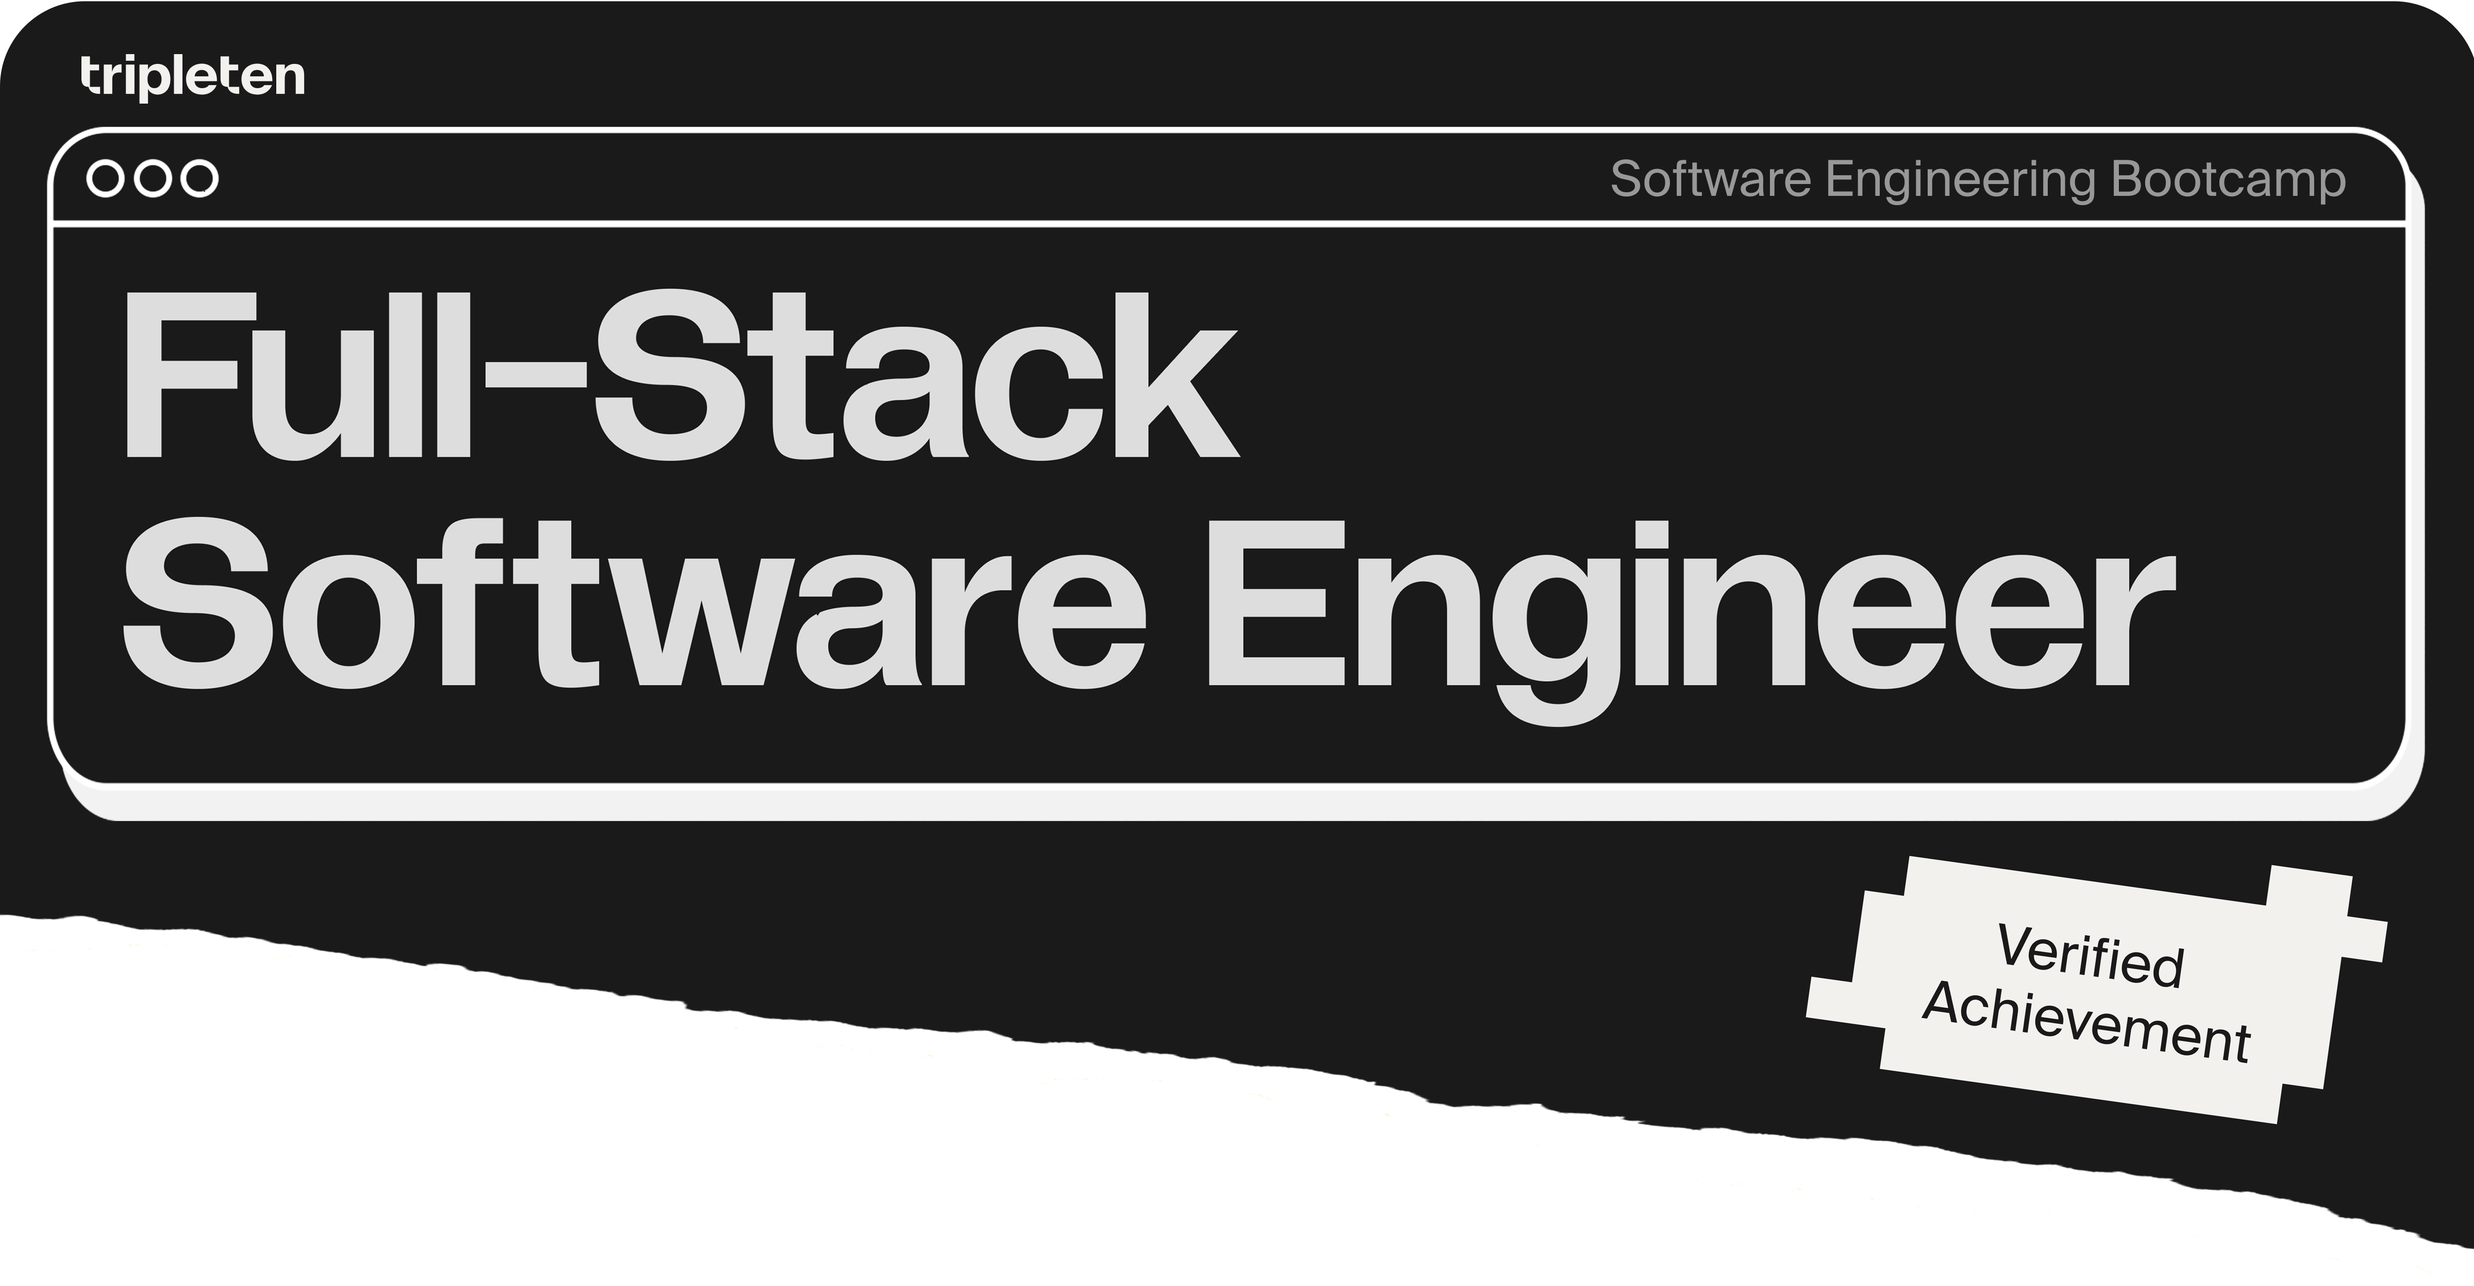
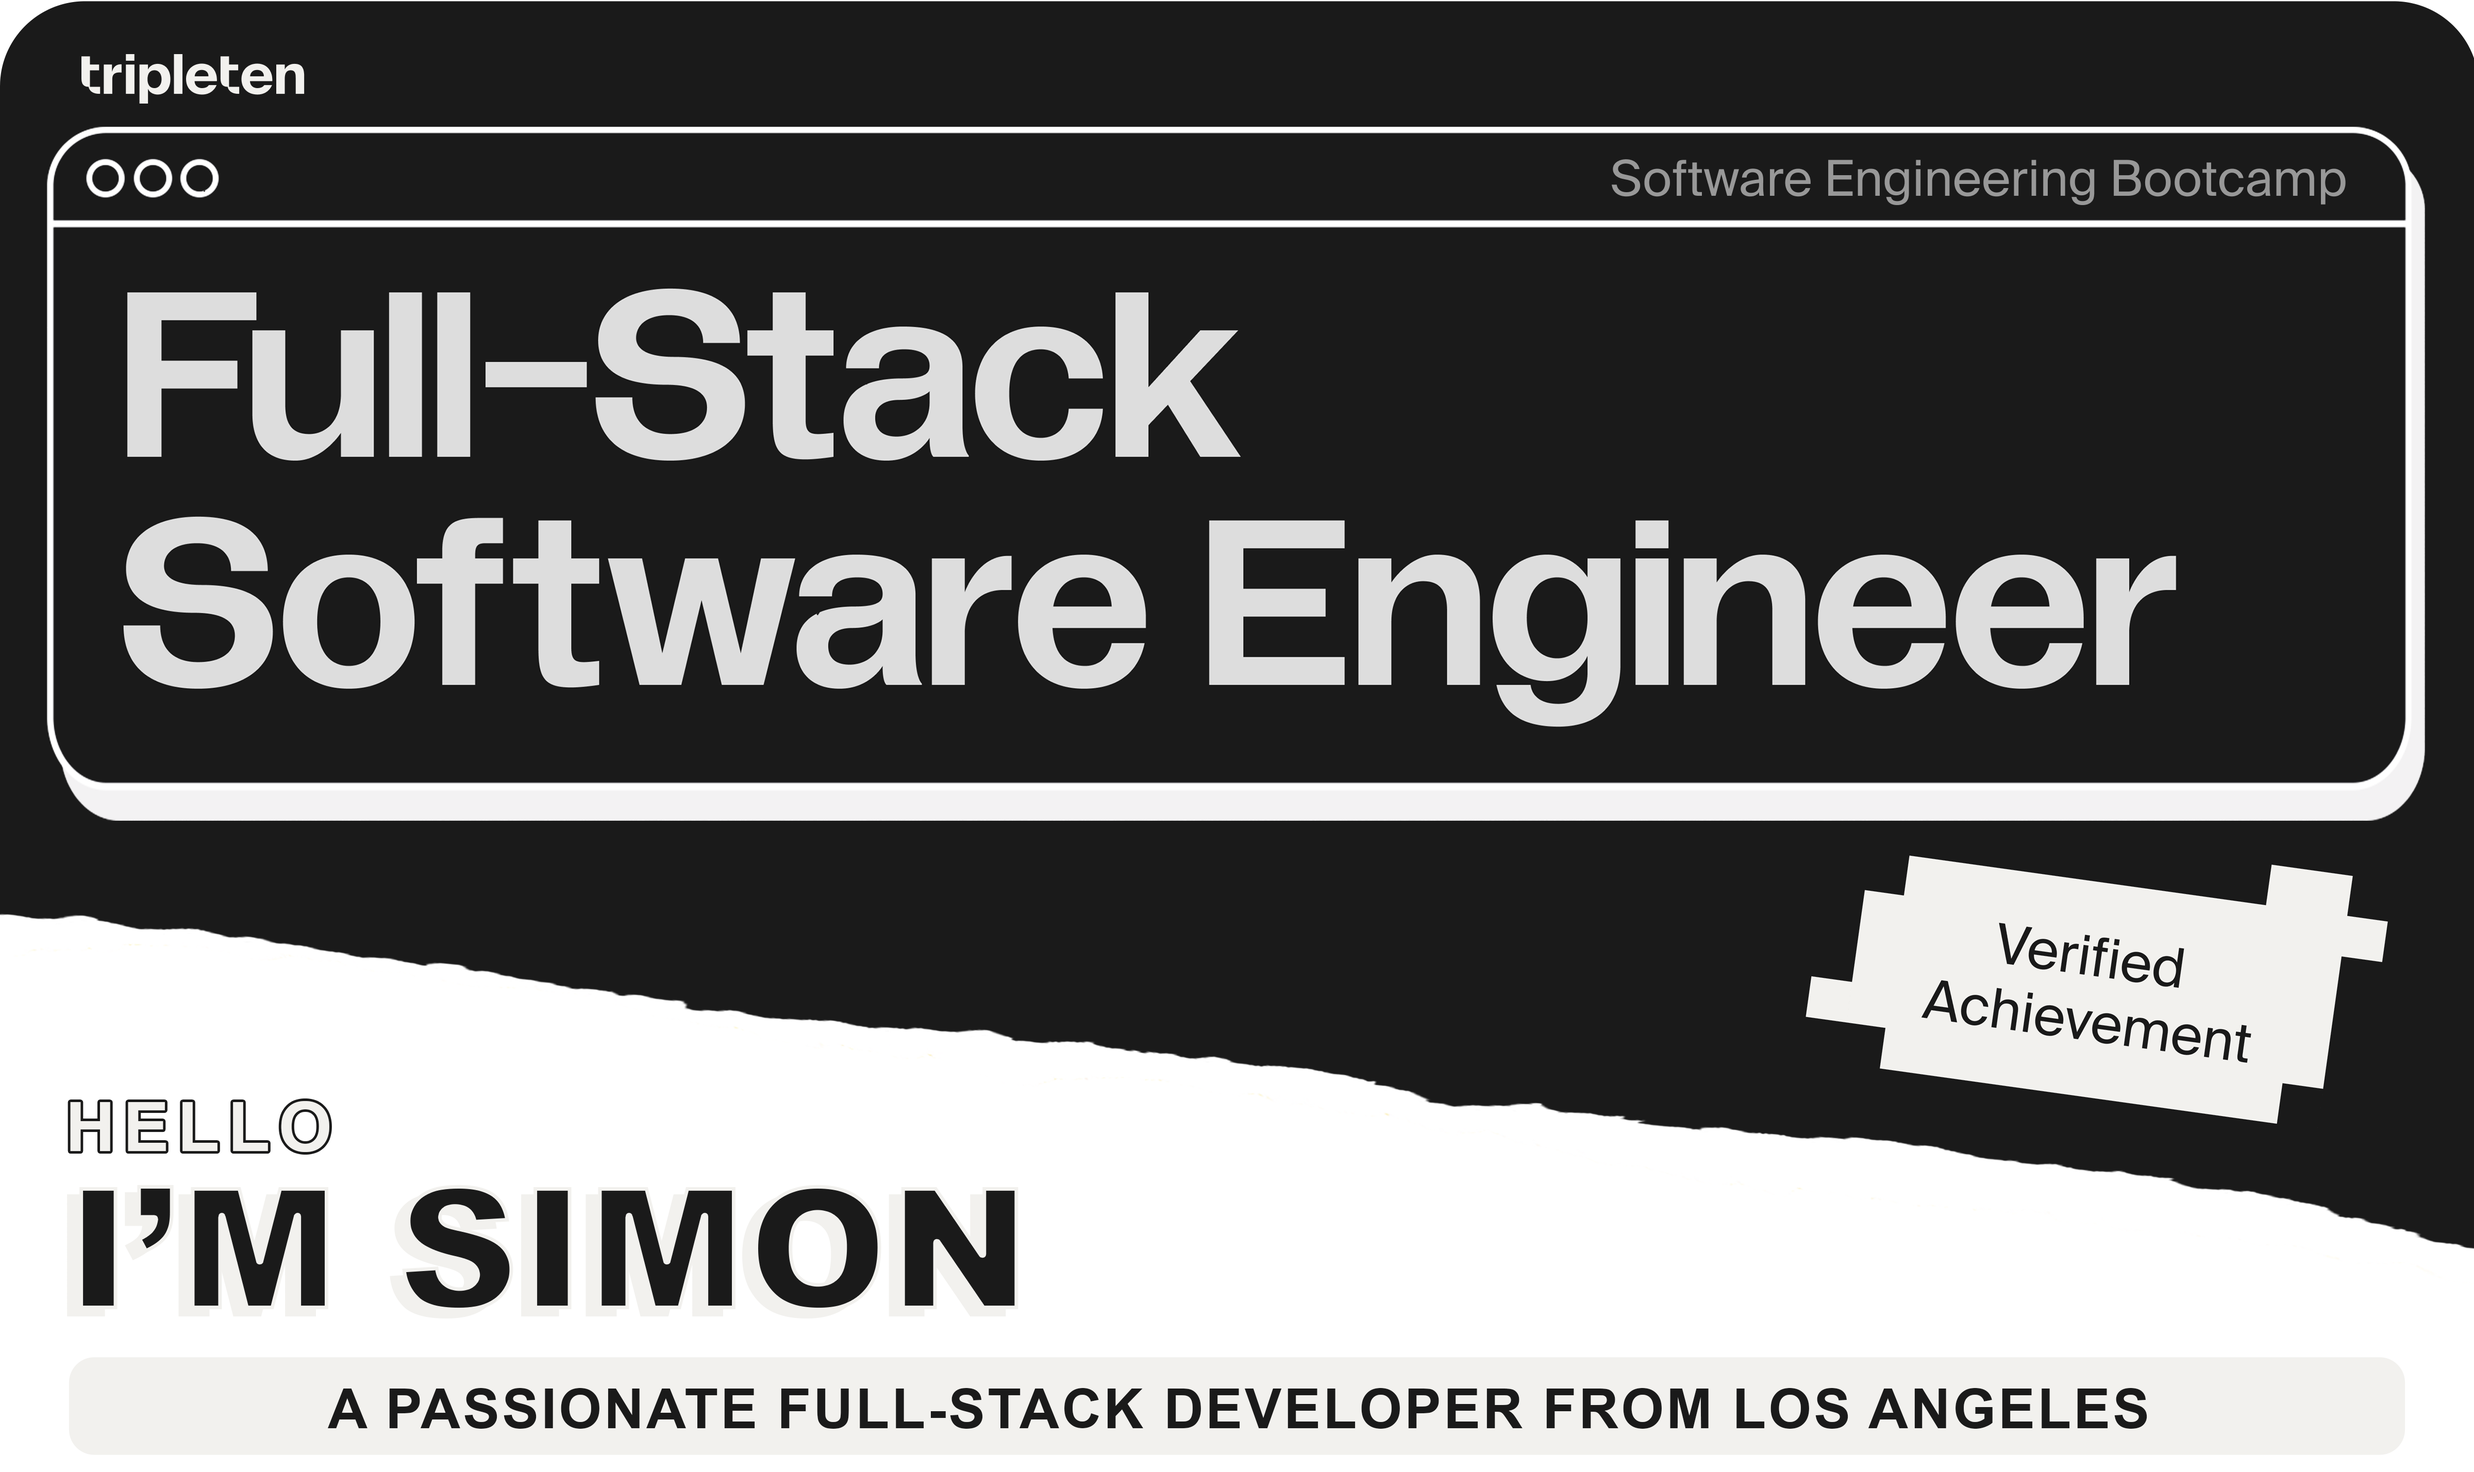
new upade for readme.md

diff --git a/README.md b/README.md
@@ -1,7 +1,6 @@
 <img src="./images/top.png" />
-<h1 align="center">Hello 👋, I'm Simon</h1>
-<h3 align="center">A Passionate Full-Stack Developer from Los Angeles, CA.</h3>
-
+<!-- <h1 align="center">Hello 👋, I'm Simon</h1> -->
+<!-- <h3 align="center">A Passionate Full-Stack Developer from Los Angeles, CA.</h3> -->
 <!-- - 🔭 I’m currently working on [My Portfolio](https://sawsimonlinn.github.io/my_portfolio_project_1/) -->
 
 - 🌱 I’m currently learning **Interview Questions**
@@ -20,7 +19,7 @@
 
 <!-- - 📫 How to reach me **simon@sawsimonlinn.com** -->
 
- - 📄 Know about my [experiences](https://www.linkedin.com/in/sawsimonlinn/) 
+- 📄 Know about my [experiences](https://www.linkedin.com/in/sawsimonlinn/)
 
 - ⚡ Fun fact **"I enjoy creating content and sharing my journey on Instagram and Facebook."**
 
